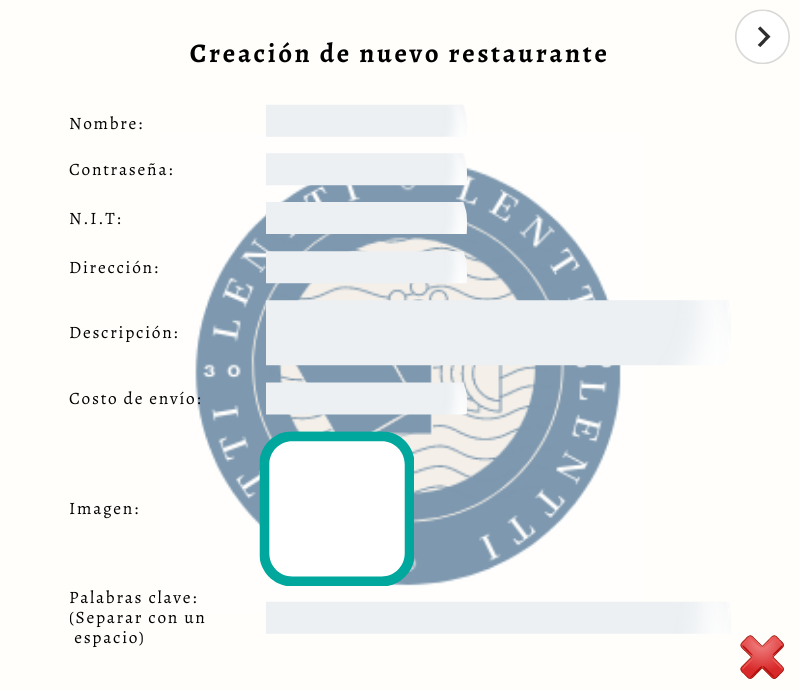
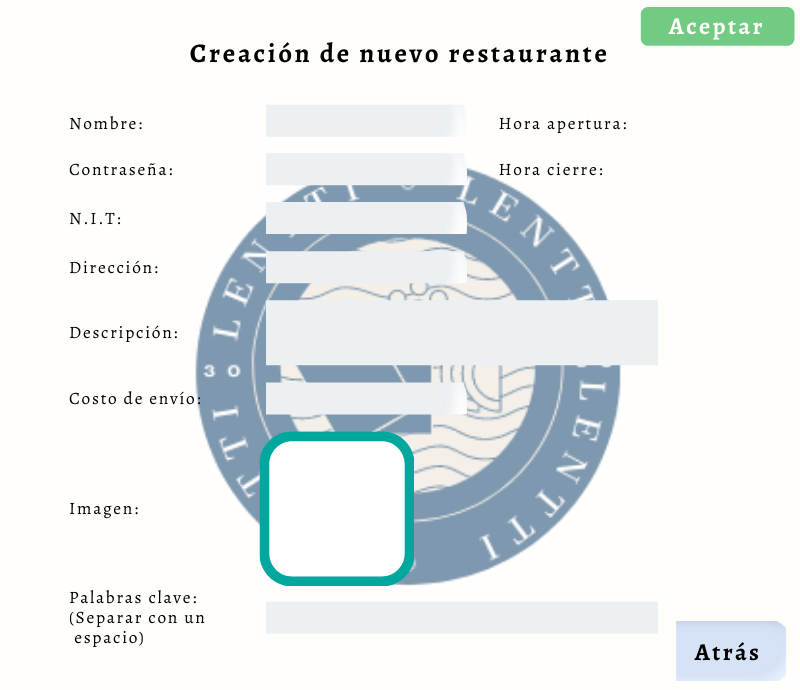
Unificados todos los botones de mi parte.

diff --git a/Lentti/src/Ventanas/PantallaCrearRestaurante.java b/Lentti/src/Ventanas/PantallaCrearRestaurante.java
@@ -91,7 +91,7 @@ public class PantallaCrearRestaurante extends javax.swing.JFrame
         jTextAreaCampoDescripcion.setBorder(null);
         jScrollPane1.setViewportView(jTextAreaCampoDescripcion);
 
-        getContentPane().add(jScrollPane1, new org.netbeans.lib.awtextra.AbsoluteConstraints(270, 300, 450, 60));
+        getContentPane().add(jScrollPane1, new org.netbeans.lib.awtextra.AbsoluteConstraints(270, 300, 390, 60));
 
         jTextFieldCampoNIT.setBorder(null);
         jTextFieldCampoNIT.addActionListener(new java.awt.event.ActionListener() {
@@ -131,7 +131,7 @@ public class PantallaCrearRestaurante extends javax.swing.JFrame
                 jTextFieldCampoPalabrasClaveActionPerformed(evt);
             }
         });
-        getContentPane().add(jTextFieldCampoPalabrasClave, new org.netbeans.lib.awtextra.AbsoluteConstraints(270, 602, 450, 30));
+        getContentPane().add(jTextFieldCampoPalabrasClave, new org.netbeans.lib.awtextra.AbsoluteConstraints(270, 602, 380, 30));
 
         jTextFieldCampoNombre.setBorder(null);
         jTextFieldCampoNombre.addActionListener(new java.awt.event.ActionListener() {
@@ -164,14 +164,14 @@ public class PantallaCrearRestaurante extends javax.swing.JFrame
                 jButtonCancelarActionPerformed(evt);
             }
         });
-        getContentPane().add(jButtonCancelar, new org.netbeans.lib.awtextra.AbsoluteConstraints(740, 630, 50, 50));
+        getContentPane().add(jButtonCancelar, new org.netbeans.lib.awtextra.AbsoluteConstraints(680, 620, 110, 60));
 
         jButtonAceptar.addActionListener(new java.awt.event.ActionListener() {
             public void actionPerformed(java.awt.event.ActionEvent evt) {
                 jButtonAceptarActionPerformed(evt);
             }
         });
-        getContentPane().add(jButtonAceptar, new org.netbeans.lib.awtextra.AbsoluteConstraints(730, 10, 60, 60));
+        getContentPane().add(jButtonAceptar, new org.netbeans.lib.awtextra.AbsoluteConstraints(650, 10, 140, 30));
         getContentPane().add(jLabelCampoImagen, new org.netbeans.lib.awtextra.AbsoluteConstraints(270, 450, 130, 120));
 
         jButtonAgregarImagen.setText("Agregar Imagen");
@@ -182,7 +182,7 @@ public class PantallaCrearRestaurante extends javax.swing.JFrame
         });
         getContentPane().add(jButtonAgregarImagen, new org.netbeans.lib.awtextra.AbsoluteConstraints(440, 520, 160, -1));
 
-        jLabel2.setIcon(new javax.swing.ImageIcon(getClass().getResource("/Imagenes/PantallaRestauranteCreacion.png"))); // NOI18N
+        jLabel2.setIcon(new javax.swing.ImageIcon(getClass().getResource("/Imagenes/PantallaCrearRestaurante.png"))); // NOI18N
         getContentPane().add(jLabel2, new org.netbeans.lib.awtextra.AbsoluteConstraints(0, 0, 800, 690));
 
         pack();

diff --git a/Lentti/src/Ventanas/PantallaModificarRestaurante.java b/Lentti/src/Ventanas/PantallaModificarRestaurante.java
@@ -188,7 +188,7 @@ public class PantallaModificarRestaurante extends javax.swing.JFrame {
                 jButtonAtrasActionPerformed(evt);
             }
         });
-        getContentPane().add(jButtonAtras, new org.netbeans.lib.awtextra.AbsoluteConstraints(740, 10, 50, 50));
+        getContentPane().add(jButtonAtras, new org.netbeans.lib.awtextra.AbsoluteConstraints(680, 10, 110, 60));
 
         pack();
     }// </editor-fold>//GEN-END:initComponents
